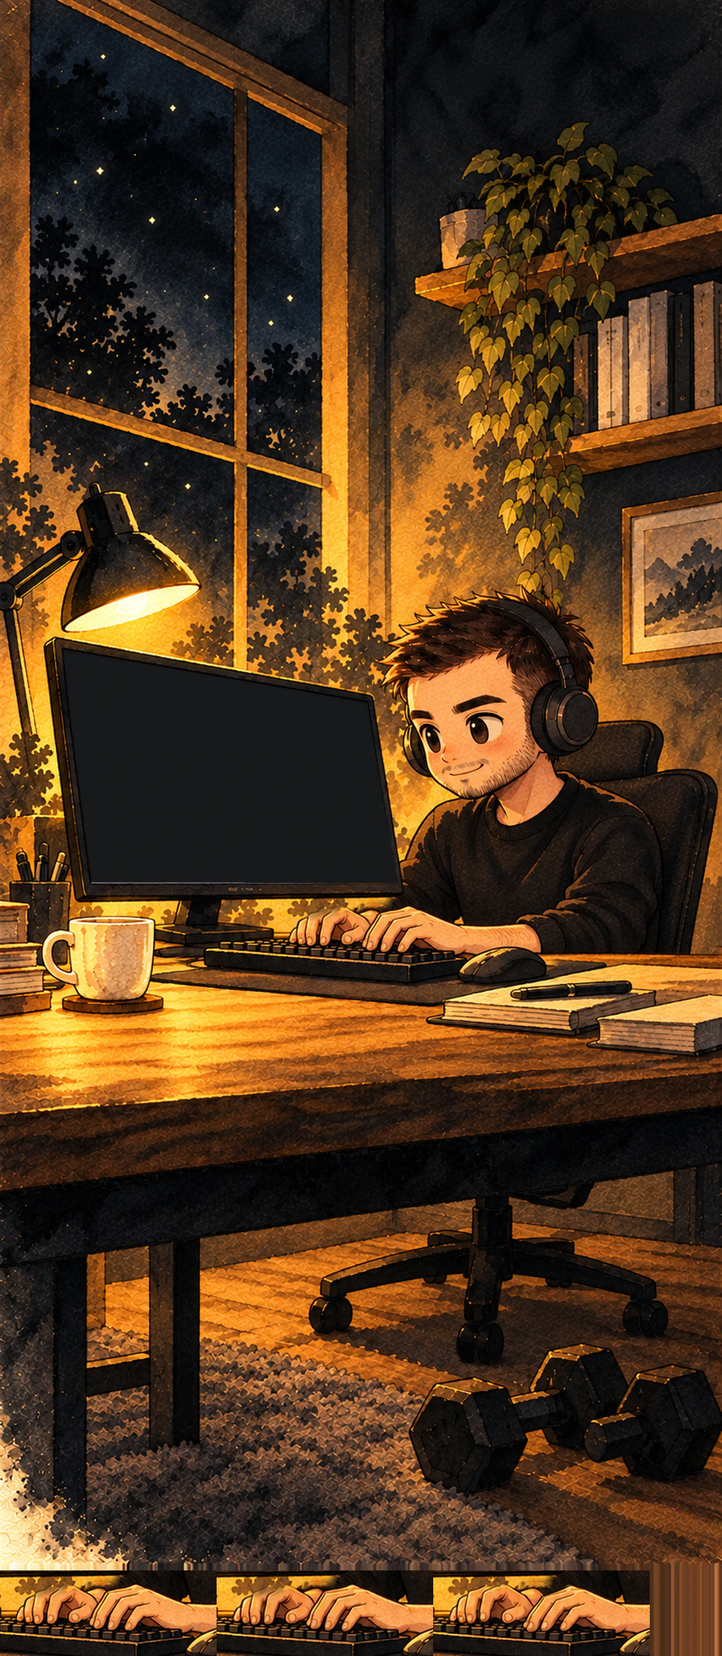
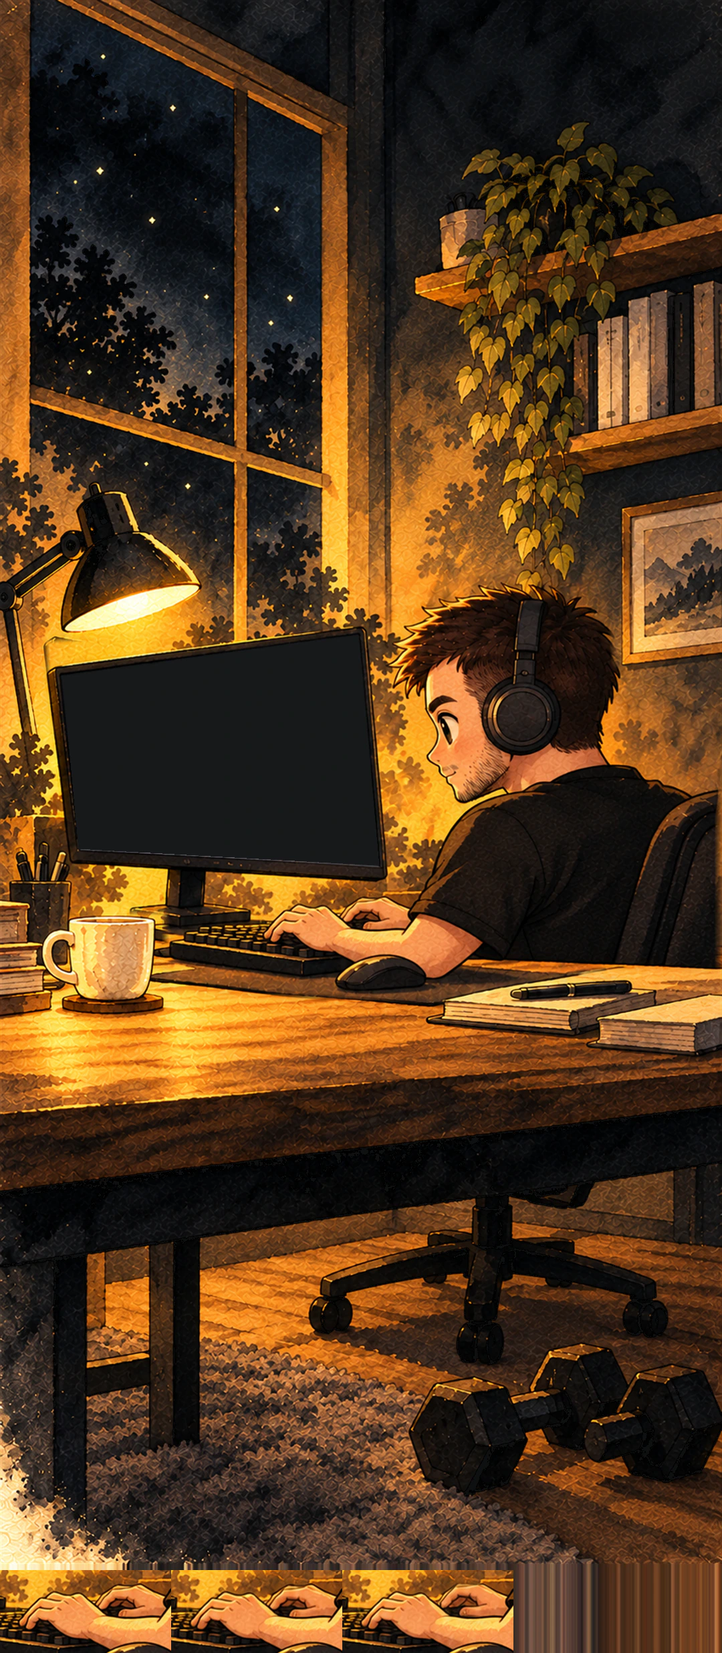
Night shift: mascot turned toward an angled monitor
Astra repainted the desktop and mobile scene plates and typing hands (mascot sits angled, in profile, looking at a
monitor turned toward him). Integration: regenerated assets and art.ts, new monitor quad and terminal box, mascot,
lamp, steam, sky panes hugging the bezel, hotspots. Squashed from t3/night-shift-facing-monitor(-1); only key
before/after screenshots kept.

diff --git a/src/lib/home/sections/night-shift/layout.ts b/src/lib/home/sections/night-shift/layout.ts
@@ -1,7 +1,7 @@
 /**
  * Night shift scene geometry, the single place to re-tune the composition.
  *
- * Source of truth: the coordinate contract in docs/art/night-shift/README.md ("Coherent scene revision": desktop scene
+ * Source of truth: the coordinate contract in docs/art/night-shift/README.md ("Facing monitor revision": desktop scene
  * 2560×1440, mobile scene 1080×2340, all in art px) and the crop rects that tools/optimize-art.mjs wrote to ./art.ts. Everything here is
  * authored in art px and exported as percentages (0…100) of each variant's canvas, so the layers, the live monitor
  * and the hotspots stay pixel-registered at every size.
@@ -136,41 +136,46 @@ export const desktop: SceneLayout = {
 		quad: screen(
 			D,
 			[
-				[609, 563],
-				[1168, 639],
-				[1220, 950],
-				[661, 949]
+				[603, 600],
+				[1247, 474],
+				[1282, 927],
+				[626, 898]
 			],
-			8
+			10
 		),
-		box: { width: 480, height: 320 },
+		// the screen's mid lines measure ≈ 656×375 art px; the box keeps that aspect
+		box: { width: 520, height: 296 },
 		fontSize: 18,
 		padding: 26
 	},
-	// head, headphones, shoulders and arms down to the hands on the keys
-	mascot: rectPct(D, 1080, 290, 900, 790),
-	window: rectPct(D, 536, 11, 582, 589),
+	// hair, headphones, back and arms down to the hands on the keys (the chair excluded)
+	mascot: rectPct(D, 1060, 300, 900, 770),
+	// upper glass down to the monitor's top edge (the turned screen now covers the panes' lower part)
+	window: rectPct(D, 536, 11, 582, 533),
 	sky: {
 		rect: rectPct(D, 430, -100, 1100, 1100),
+		// README "facing monitor" pane clips, their lower edges run 1 px above the turned monitor's bezel (the README's
+		// left a 5–6 px strip of moonless plate glass above it)
 		panes: [
 			[
 				[538, 11],
 				[943, 106],
-				[942, 569],
+				[943, 518],
+				[796, 544],
 				[536, 508]
 			],
 			[
 				[969, 113],
 				[1116, 153],
-				[1118, 600],
-				[968, 575]
+				[1118, 487],
+				[968, 513]
 			]
 		].map((pane) => pane.map((point) => pointPct(D, point as [number, number])))
 	},
 	// center of the shade's lit opening
-	lamp: { ...pointPct(D, [320, 628]), radius: 16 },
-	// mug rim ≈ x 355…525 at y 960 (handle on the left); the wisps rise from the bottom center of this box
-	steam: rectPct(D, 357, 622, 166, 338),
+	lamp: { ...pointPct(D, [318, 624]), radius: 16 },
+	// mug rim [355, 951, 171, 34], steam origin (438, 964): the wisps rise from the bottom center of this box
+	steam: rectPct(D, 355, 626, 166, 338),
 	bonsai: at(D, POT, BONSAI_ON_DESKTOP),
 	props: {
 		bonsai: place(D, PROPS.bonsai, BONSAI_ON_DESKTOP),
@@ -183,16 +188,16 @@ export const desktop: SceneLayout = {
 	spots: [
 		{
 			id: 'window',
-			// upper panes, stopping at the monitor's top edge (y 563)
-			rect: rectPct(D, 536, 11, 582, 552),
-			glow: rectPct(D, 535, 87, 520, 520),
+			// upper panes, stopping at the turned monitor's top edge
+			rect: rectPct(D, 536, 11, 582, 533),
+			glow: rectPct(D, 545, 60, 500, 490),
 			tip: { x: 45, y: 38 }
 		},
-		// README "coherent scene revision" rects (art px); the bonsai's moves with its 18 px offset
+		// README "facing monitor revision" rects (art px); the bonsai's includes the grown golden canopy
 		{ id: 'coffee', rect: rectPct(D, 294, 948, 255, 195) },
 		{ id: 'handheld', rect: rectPct(D, 126, 1082, 375, 187), tip: { x: 30, y: 4 }, tipAlign: 'start' },
 		{ id: 'manga', rect: rectPct(D, 1940, 200, 620, 355), tip: { x: 45, y: 8 }, tipAlign: 'end' },
-		{ id: 'bonsai', rect: rectPct(D, 2020, 696, 506, 418), tip: { x: 50, y: 10 }, tipAlign: 'end' },
+		{ id: 'bonsai', rect: rectPct(D, 2020, 678, 506, 418), tip: { x: 50, y: 10 }, tipAlign: 'end' },
 		{ id: 'dumbbells', rect: rectPct(D, 1858, 1212, 395, 182) }
 	]
 };
@@ -210,18 +215,19 @@ export const mobile: SceneLayout = {
 		quad: screen(
 			M,
 			[
-				[96, 975],
-				[548, 1052],
-				[593, 1320],
-				[138, 1318]
+				[93, 1012],
+				[536, 952],
+				[567, 1294],
+				[117, 1270]
 			],
-			6
+			7
 		),
+		// the screen's mid lines measure ≈ 448×300 art px; 216 px tall fits a full page plus the prompt (≈ 7% taller glyphs)
 		box: { width: 300, height: 216 },
 		fontSize: 16,
 		padding: 14
 	},
-	mascot: rectPct(M, 400, 850, 610, 600),
+	mascot: rectPct(M, 390, 870, 650, 580),
 	window: rectPct(M, 46, 0, 434, 700),
 	sky: {
 		// README rest rect is (-65, 10); raised 50 px so the scroll drift never uncovers the panes' top edge
@@ -242,9 +248,9 @@ export const mobile: SceneLayout = {
 			]
 		].map((pane) => pane.map((point) => pointPct(M, point as [number, number])))
 	},
-	lamp: { ...pointPct(M, [199, 912]), radius: 30 },
-	// mug rim ≈ x 105…220 at y 1378
-	steam: rectPct(M, 104, 1167, 119, 211),
+	lamp: { ...pointPct(M, [194, 909]), radius: 30 },
+	// mug rim [105, 1371, 126, 25], steam origin (169, 1380)
+	steam: rectPct(M, 109, 1169, 120, 211),
 	bonsai: at(M, POT, BONSAI_TO_MOBILE),
 	props: { bonsai: place(M, PROPS.bonsai, BONSAI_TO_MOBILE), golden: place(M, PROPS.golden, BONSAI_TO_MOBILE), handheld: place(M, PROPS.handheld, HANDHELD_TO_MOBILE) },
 	sheet: sheetPct(SCENES.mobile),
@@ -254,8 +260,8 @@ export const mobile: SceneLayout = {
 		{ id: 'manga', rect: rectPct(M, 760, 420, 320, 280), tip: { x: 45, y: 10 }, tipAlign: 'end' },
 		{ id: 'coffee', rect: rectPct(M, 60, 1368, 186, 155), tipAlign: 'start' },
 		{ id: 'handheld', rect: rectPct(M, 140, 1515, 301, 151) },
-		// README rect moved with the bonsai's nudge (left edge kept clear of the golden canopy at x ≈ 805)
-		{ id: 'bonsai', rect: rectPct(M, 790, 1266, 290, 255), tip: { x: 45, y: 0 }, tipAlign: 'end', dot: { x: 56, y: 50 } },
+		// README rect, includes the golden canopy; the dot sits on the trunk (x ≈ 971 with the nudge)
+		{ id: 'bonsai', rect: rectPct(M, 775, 1260, 305, 255), tip: { x: 45, y: 0 }, tipAlign: 'end', dot: { x: 63, y: 50 } },
 		{ id: 'dumbbells', rect: rectPct(M, 605, 2005, 475, 245) }
 	]
 };

diff --git a/src/lib/home/sections/night-shift/art.ts b/src/lib/home/sections/night-shift/art.ts
@@ -23,22 +23,22 @@ export const PROPS = {
 export const SCENES = {
 	desktop: {
 		canvas: { width: 1920, height: 1080 },
-		sheet: 1220,
-		hands: { x: 804, y: 696, width: 340, height: 116 },
+		sheet: 1210,
+		hands: { x: 788, y: 694, width: 266, height: 106 },
 		cells: [
 			{ x: 8, y: 1096 },
-			{ x: 364, y: 1096 },
-			{ x: 720, y: 1096 }
+			{ x: 290, y: 1096 },
+			{ x: 572, y: 1096 }
 		]
 	},
 	mobile: {
 		canvas: { width: 1080, height: 2340 },
-		sheet: 2476,
-		hands: { x: 416, y: 1342, width: 308, height: 112 },
+		sheet: 2472,
+		hands: { x: 374, y: 1328, width: 240, height: 108 },
 		cells: [
 			{ x: 8, y: 2356 },
-			{ x: 332, y: 2356 },
-			{ x: 656, y: 2356 }
+			{ x: 264, y: 2356 },
+			{ x: 520, y: 2356 }
 		]
 	}
 };

diff --git a/docs/art/night-shift/PROMPTS.md b/docs/art/night-shift/PROMPTS.md
@@ -217,3 +217,90 @@ Hand export:
 - Validation: correct dimensions; frame-1 decoded RGB exactly matches scene crop; unchanged border rims; changed bounds stay inside the hand rectangles; screen polygons uniformly #18191B; manual 100% hands/chair/mouse inspection; visual desktop/mobile composites with the existing prop mappings.
 
 Temporary local export scripts and inspection composites were removed before commit. No new dependency, public text, source component, old artwork or deployment configuration was changed.
+
+## Facing monitor revision — 2026-11-01
+
+Built-in image_gen.imagegen, opaque outputs, highest quality requested; no CLI/API fallback, no installation, no public copy. Eight generation calls: four composition candidates and four local hand edits. The first desktop and mobile candidates were rejected because their monitors retained the original perspective facing away from the typist. Both had improved gaze, but that alone did not resolve the physical inconsistency. Candidate B in each format was selected for the left-facing profile, rotated chair, readable screen and coherent working axis. Rejected rasters are not committed.
+
+### Desktop candidate A — rejected
+
+Inputs: Original desktop scene. Transparent background: false.
+
+```text
+Use case: precise-object-edit. Edit the provided production watercolor room plate. Highest quality, output 2560x1440 landscape. Fix the coding pose convincingly: the man at right turns his entire chair, shoulders and head to the LEFT toward the monitor. Show his right side and some back, near strict left-facing profile: nose points LEFT, one visible eye looking LEFT into the center of the screen, no eye contact with viewer. Short dark hair, stubble, black short-sleeve tee, dark headphones, same soft anime watercolor identity. Turn monitor toward him at right: its right edge is closer to viewer and taller than left edge, top edge slopes upward toward right, bottom slopes downward toward right. Keep a LARGE wide unobstructed readable screen face occupying roughly x24–48%, y37–66%, uniform #18191B with clear ink bezel, no content. Keyboard directly between monitor and man on their diagonal working axis, both relaxed hands contacting keys, anatomically sound fingers. One coherent chair behind his right shoulder, one mouse beside keyboard. Preserve exact room framing and all non-workstation objects: window, lamp, coffee, shelf with blank book spines, plants, notebook, empty bonsai book at far right, empty handheld surface lower left, dumbbells. Preserve warm butter lamplight, charcoal wall, ink and watercolor paper grain. No bonsai or console painted in: existing separate overlays retained. No moon painted in: existing sky overlay retained. No steam, text, letters, glyphs, logos or UI anywhere. Change only man/chair/monitor/keyboard/mouse and immediate surface, keep room layout intact.
+```
+
+### Desktop candidate B — selected
+
+Inputs: Original desktop scene. Transparent background: false.
+
+```text
+Use case: precise-object-edit. Edit the provided production watercolor room plate. Highest quality, output 2560x1440 landscape. Fix the coding pose convincingly: the man at right turns his entire chair, shoulders and head to the LEFT toward the monitor. Show his right side and some back, near strict left-facing profile: nose points LEFT, one visible eye looking LEFT into the center of the screen, no eye contact with viewer. Short dark hair, stubble, black short-sleeve tee, dark headphones, same soft anime watercolor identity. Turn monitor toward him at right: its right edge is closer to viewer and taller than left edge, top edge slopes upward toward right, bottom slopes downward toward right. Keep a LARGE wide unobstructed readable screen face occupying roughly x24–48%, y37–66%, uniform #18191B with clear ink bezel, no content. Keyboard directly between monitor and man on their diagonal working axis, both relaxed hands contacting keys, anatomically sound fingers. One coherent chair behind his right shoulder, one mouse beside keyboard. Preserve exact room framing and all non-workstation objects: window, lamp, coffee, shelf with blank book spines, plants, notebook, empty bonsai book at far right, empty handheld surface lower left, dumbbells. Preserve warm butter lamplight, charcoal wall, ink and watercolor paper grain. No bonsai or console painted in: existing separate overlays retained. No moon painted in: existing sky overlay retained. No steam, text, letters, glyphs, logos or UI anywhere. Change only man/chair/monitor/keyboard/mouse and immediate surface, keep room layout intact.
+COMPOSITION B — CRITICAL monitor perspective correction: completely repaint the monitor; do not retain the original left-tall trapezoid. Inner screen corners on 2560x1440 MUST be approximately TL(600,640), TR(1170,550), BR(1170,940), BL(600,870). The RIGHT screen edge is nearer the man and is TALLER, so the visible screen actually faces him. This is essential. Keyboard is angled diagonally, long edge recedes toward upper-left, centered x1170,y1030. Left-facing profile head, eye aimed into screen; visible right shoulder/back. Retain wide visible screen and both hands.
+```
+
+### Mobile candidate A — rejected
+
+Inputs: Original mobile scene; selected desktop candidate B. Transparent background: false.
+
+```text
+Use case: precise-object-edit. Highest quality. Image 1 is the portrait room edit target, keep exactly its framing and 1080x2340 ratio. Image 2 is the accepted DESKTOP composition reference. Repaint only mobile workstation to match image 2: man in right-side/back three-quarter view, head strict left-facing profile with one visible eye looking LEFT into screen center, short dark hair, stubble, headphones, black tee. Chair turned left, one chair only. Large monitor face turned toward the man: RIGHT vertical edge taller and nearer him; top edge rises toward right, bottom edge descends toward right. Large unobscured uniformly #18191B screen, ink bezel, approximately x8–56%, y41–57%. Keyboard aligned on screen-to-man axis, both hands touching blank keys. Natural arms and seated anatomy. Keep EXACT portrait room and non-workstation locations: tall window, lamp, mug, shelf and trailing plant, book on right for separate bonsai, blank handheld space, desk legs, chair base, dumbbells. Match warm butter light, anthracite, ink/watercolor paper texture and mascot style. No text, letters, UI, logos, steam. No painted bonsai/console/moon, these retain separate registered layers. Do not crop or reframe. Same portrait proportions.
+```
+
+### Mobile candidate B — selected
+
+Inputs: Original mobile scene; selected desktop candidate B. Transparent background: false.
+
+```text
+Use case: precise-object-edit. Highest quality. Image 1 is the portrait room edit target, keep exactly its framing and 1080x2340 ratio. Image 2 is the accepted DESKTOP composition reference. Repaint only mobile workstation to match image 2: man in right-side/back three-quarter view, head strict left-facing profile with one visible eye looking LEFT into screen center, short dark hair, stubble, headphones, black tee. Chair turned left, one chair only. Large monitor face turned toward the man: RIGHT vertical edge taller and nearer him; top edge rises toward right, bottom edge descends toward right. Large unobscured uniformly #18191B screen, ink bezel, approximately x8–56%, y41–57%. Keyboard aligned on screen-to-man axis, both hands touching blank keys. Natural arms and seated anatomy. Keep EXACT portrait room and non-workstation locations: tall window, lamp, mug, shelf and trailing plant, book on right for separate bonsai, blank handheld space, desk legs, chair base, dumbbells. Match warm butter light, anthracite, ink/watercolor paper texture and mascot style. No text, letters, UI, logos, steam. No painted bonsai/console/moon, these retain separate registered layers. Do not crop or reframe. Same portrait proportions.
+MANDATORY screen perspective: discard original monitor silhouette. Inner screen on 1080x2340 must approximately be TL(90,1060), TR(550,970), BR(575,1320), BL(110,1280). RIGHT edge taller, TOP edge slopes UP toward right, opposite the original plate. Match image 2 monitor orientation exactly. Do not retain old screen angle. Keep screen wide, entire face visible. Preserve portrait canvas and original prop locations.
+```
+
+### Desktop hands beat 2
+
+Inputs: Final registered desktop scene. Transparent background: false.
+
+```text
+Use case: precise-object-edit. Production typing animation beat 2. Edit supplied 2560x1440 scene ONLY inside hands rectangle [1040,925,440,140]. Keep palms, wrists, forearms, keyboard and all room pixels exactly registered. Near hand's index finger lifts a few pixels while middle finger presses a key; far hand index presses and middle lifts slightly. Tiny anatomically plausible fingertip motion only, both hands remain on keys. Five fingers, no extra digits. No changes to arms, pose, head, screen, lighting, texture or camera. No text. Output full identical landscape canvas; a small hand crop will be extracted.
+```
+
+### Desktop hands beat 3
+
+Inputs: Final registered desktop scene. Transparent background: false.
+
+```text
+Use case: precise-object-edit. Production typing animation beat 3. Edit supplied 2560x1440 scene ONLY inside hands rectangle [1040,925,440,140]. Keep palms, wrists, forearms, keyboard and all room pixels exactly registered. Near hand index gently presses its key and ring fingertip lifts slightly; far index lifts a few pixels while middle finger presses. Opposite beat. Tiny anatomically plausible fingertip motion only, both hands remain on keys. Five fingers, no extra digits. No changes to arms, pose, head, screen, lighting, texture or camera. No text. Output full identical landscape canvas; a small hand crop will be extracted.
+```
+
+### Mobile hands beat 2
+
+Inputs: Final registered mobile scene. Transparent background: false.
+
+```text
+Use case: precise-object-edit. Production typing animation beat 2. Edit supplied 1080x2340 scene ONLY inside hands rectangle [370,1330,300,105]. Keep palms, wrists, forearms, keyboard and all room pixels exactly registered. Near hand's index finger lifts a few pixels while middle finger presses a key; far hand index presses and middle lifts slightly. Tiny anatomically plausible fingertip motion only, both hands remain on keys. Five fingers, no extra digits. No changes to arms, pose, head, screen, lighting, texture or camera. No text. Output full identical portrait canvas; a small hand crop will be extracted.
+```
+
+### Mobile hands beat 3
+
+Inputs: Final registered mobile scene. Transparent background: false.
+
+```text
+Use case: precise-object-edit. Production typing animation beat 3. Edit supplied 1080x2340 scene ONLY inside hands rectangle [370,1330,300,105]. Keep palms, wrists, forearms, keyboard and all room pixels exactly registered. Near hand index gently presses its key and ring fingertip lifts slightly; far index lifts a few pixels while middle finger presses. Opposite beat. Tiny anatomically plausible fingertip motion only, both hands remain on keys. Five fingers, no extra digits. No changes to arms, pose, head, screen, lighting, texture or camera. No text. Output full identical portrait canvas; a small hand crop will be extracted.
+```
+
+### Registration and export
+
+Native outputs: desktop 1672×941; mobile 852×1846. Windows System.Drawing high-quality bicubic resize to 2560×1440 and 1080×2340. These are normalized masters, not native full-resolution generations. Original base pixels are retained outside workstation masks. Generated pixels blend inward over 12 final pixels, using distance to the nearest polygon segment. No anatomy was drawn with code.
+
+Masks in native generated coordinates, scaled to final canvas with rounded vertices:
+
+- Desktop: [[370,295],[850,295],[850,170],[1230,170],[1230,380],[1500,380],[1500,695],[1100,695],[1100,750],[500,750],[500,700],[360,700]].
+- Mobile: [[48,750],[440,730],[440,665],[720,665],[730,780],[852,780],[852,1150],[690,1150],[690,1180],[190,1180],[190,1080],[65,1080]].
+
+Initial hard-edged export was rejected for visible joins and a retained old chair edge. Added the 12-pixel inward feather and expanded desktop right-upper mask from y420 to y380. Mobile mask was expanded from y850 to y780 to remove an old floating headrest edge. These were export corrections, not additional image generations.
+
+Fill measured monitor quads with RGB(24,25,27), as documented in README. Retain original transparent props and their affine placements. Desktop sky clip is shortened around the new monitor top; mobile clip stays unchanged. Do not bake sky or props into the scene.
+
+Hand exports remain 440×140 desktop and 300×105 mobile. Frame 1 is an exact scene crop at the new rect. Resize each generated full-frame beat to master size and crop the same rect. Blend only the union of two ellipses in patch-local coordinates: desktop center/radii (125,83)/(105,48) and (263,52)/(93,42); mobile (80,59)/(68,39) and (173,34)/(62,29). Let r be the smaller normalized elliptical distance, alpha=clamp((1-r)*6,0,1). Multiply by clamp((d-4)/10,0,1), where d is distance to nearest patch edge. Round blended RGB values to nearest integer. This keeps wrists, most keycaps, surrounding texture and five-pixel patch rims stationary. Full generated variants are not runtime frames.
+
+Review: final plates, native-size face/workstation crops, all hand frames, 640×360 desktop and 270×585 mobile composites with existing moon, bonsai, handheld and foreground. Hand motion is intentionally small, especially at mobile size; profile occludes some far fingers naturally. Palette and paper texture remain matched to the original room.

diff --git a/docs/art/night-shift/README.md b/docs/art/night-shift/README.md
@@ -195,3 +195,65 @@ The window hotspot must still be clipped to the two upper panes, using the origi
 - The built-in editor has no explicit mask/model/quality selector. Highest quality and local-region edits were requested in the prompts. It still repainted pixels outside the requested region, so only the cropped hand regions were used, with deterministic soft edge blending.
 - Native generations were 1672×941 desktop and 852×1846 mobile. The final 2560×1440 and 1080×2340 masters are Lanczos-resampled/registered exports, not native-resolution generations. The original background pixels are preserved outside the edit mask. No anatomical content was drawn with code.
 - All requested deliverables are supplied, including mobile hands. The assets are ready for integration; this commit does not alter the live site. Keep these PNG masters in the art source folder and derive appropriately compressed responsive assets through the existing pipeline.
+
+## Facing monitor revision
+
+2026-11-01. **This is the authoritative coordinate contract for the current scene and hand PNGs.** It supersedes the coherent-scene coordinates above. Origin is top left; all values below are final-canvas pixels. Rectangles are [x,y,width,height]; quads are clockwise TL, TR, BR, BL.
+
+The mascot now presents his right side/back, with a left-facing profile and visible eye aimed into the monitor. The monitor's right edge is taller, turning its readable face toward him; keyboard and hands sit along that working axis. Scene masters remain 2560×1440 desktop and 1080×2340 mobile. Hand crops retain 440×140 and 300×105 respectively, but their placement changes. These coordinates must be adopted together during integration.
+
+### Desktop — 2560×1440
+
+- Monitor inner screen quad: **[[603,600],[1246,474],[1282,927],[626,897]]**. Interior is uniform #18191B; inset terminal content a few pixels from the edge.
+- Mascot visible box (hair, body, arms; excludes chair): [1060,300,900,770].
+- Hands patch: **[1040,925,440,140]**.
+- Lamp bulb/light center: [318,624]. Visible shade opening bounds: [196,575,247,101].
+- Mug rim: [355,951,171,34]; steam origin: [438,964]; proposed unpainted steam box: [375,790,125,175].
+- Bonsai pot baseline: y1090, center x2303. Original green/golden registration retained.
+- Window visible upper-pane clips, shortened where the new monitor occludes the original glass:
+  - Left: [[538,11],[943,106],[943,513],[790,544],[536,508]].
+  - Right: [[969,113],[1116,153],[1118,477],[968,507]].
+- Sky placement remains [430,-100,1100,1100]. Use these revised fixed clips; otherwise the old sky overlay would paint across the monitor's top edge.
+
+Hotspot rectangles, measured practical bounds including modest target padding:
+
+- Window: [536,11,582,533], clipped to the two revised pane polygons.
+- Coffee: [294,948,255,195].
+- Handheld: [126,1082,375,187].
+- Manga: [1940,200,620,355].
+- Bonsai: [2020,678,506,418], includes golden grown state.
+- Dumbbells: [1858,1212,395,182].
+
+### Mobile — 1080×2340
+
+- Monitor inner screen quad: **[[93,1012],[535,951],[567,1294],[117,1269]]**. Interior is uniform #18191B.
+- Mascot visible box (hair, body, arms; excludes chair): [390,870,650,580].
+- Hands patch: **[370,1330,300,105]**.
+- Lamp bulb/light center: [194,909]. Visible shade opening bounds: [92,871,207,77].
+- Mug rim: [105,1371,126,25]; steam origin: [169,1380]; proposed unpainted steam box: [119,1210,100,172].
+- Bonsai pot baseline: y1509, center x947. Original mobile affine mapping retained.
+- Window upper-pane clips unchanged:
+  - Left: [[46,0],[76,0],[349,133],[349,663],[46,586]].
+  - Right: [[371,145],[480,197],[480,700],[371,672]].
+- Sky placement remains [-65,10,800,800].
+
+Hotspot rectangles:
+
+- Window: [46,0,434,700], clipped to the two pane polygons.
+- Coffee: [60,1368,186,155].
+- Handheld: [140,1515,301,151].
+- Manga: [760,420,320,280].
+- Bonsai: [775,1260,305,255], includes golden grown state.
+- Dumbbells: [605,2005,475,245].
+
+### Layers, verification and limitations
+
+Keep the coherent-scene layer order: scene, clipped sky, hands patch, handheld plus one bonsai state, optional foreground, then implementation-owned steam/terminal/hotspots. The moon, bonsai and handheld intentionally remain separate. All four transparent prop files remain unchanged: the book and tabletop anchors still register in reviewed desktop/mobile composites. Mobile bonsai overlaps the right torso/chair edge naturally without obscuring hands. Use the previously documented mobile affine mappings.
+
+Frame 1 is an exact decoded-RGB crop of its plate. Frames 2 and 3 use generated fingertips blended only within local elliptical masks and retain a five-pixel unchanged rim; there are no animation changes outside the documented patch. Start with 1→2→1→3 at approximately 5–6 changes per second, freeze to frame 1 for reduced motion. The profile naturally hides some far-hand fingers; animation is restrained and subtle on small mobile displays.
+
+Final inspection covered both plates at full resolution through original-size detail views and full-canvas views, every patch, and 640×360 / 270×585 prop-composited thumbnails. The face reads as concentrating on the screen even at thumbnail size. Exact pixel validation covers dimensions, frame-1 equality, patch rims and uniform screen fills. Live terminal font size still needs implementation-level checking.
+
+Native generated images were 1672×941 / 852×1846; these masters are resized exports with original background pixels preserved outside the workstation masks. No application code, visitor copy, dependency, deployment or remote push is part of this revision. Exact prompts, rejections and export masks are in PROMPTS.md.
+
+Pixel audit: all eight PNG dimensions passed; both frame-1 crops match exactly; both screen interiors match RGB(24,25,27). Frame 2/3 changed bounds within each crop are desktop [21,11,335,120] and mobile [13,6,222,92], so all five-pixel rims remain unchanged.

diff --git a/src/lib/home/sections/night-shift/assets/README.md b/src/lib/home/sections/night-shift/assets/README.md
@@ -1,6 +1,6 @@
 # Night shift layers (01:00)
 
-Optimized sources generated from the final painted masters in `docs/art/night-shift/` (the "coherent scene revision": the mascot, one chair, keyboard and mouse are painted into the scene) by `../tools/optimize-art.mjs` (sharp from pnpm's store, no extra dependency). Do not edit these files by hand: change the masters or the tool and re-run it (stop `pnpm dev` first on Windows, it keeps the files open). The build (`@sveltejs/enhanced-img`) encodes them to AVIF/WebP in the widths listed in `../Scene.svelte`.
+Optimized sources generated from the final painted masters in `docs/art/night-shift/` (the "facing monitor revision": the mascot, in profile and turned toward the monitor, one chair, keyboard and mouse are painted into the scene) by `../tools/optimize-art.mjs` (sharp from pnpm's store, no extra dependency). Do not edit these files by hand: change the masters or the tool and re-run it (stop `pnpm dev` first on Windows, it keeps the files open). The build (`@sveltejs/enhanced-img`) encodes them to AVIF/WebP in the widths listed in `../Scene.svelte`.
 
 ```sh
 node src/lib/home/sections/night-shift/tools/optimize-art.mjs && pnpm exec oxfmt src/lib/home/sections/night-shift/art.ts
@@ -18,6 +18,6 @@ node src/lib/home/sections/night-shift/tools/optimize-art.mjs && pnpm exec oxfmt
 
 **Typing hands.** Each scene file is taller than its scene: below it sits a band with the three hand frames side by side, each cut out around the pixels the frames change (plus an 8 px margin of unchanged scene and an 8 px bleed of the surrounding scene for resampling). The section shows the scene part as the plate (the band is clipped off) and a window at the hands rect onto the same image, translated to the current frame's cell. Plate and window use the same `src`, `srcset` and `sizes`, so the browser picks the same file and decodes it once, and the cell registers exactly with the plate at every size. A separately encoded patch drifted by about 0.5 CSS px in Chrome on phones. Keep the hands window's `<enhanced:img>` in sync with the plate's. Under reduced motion the window is not rendered: the plate's own hands at rest are frame 1.
 
-Crop offsets, the hands rect and the cell positions land in `../art.ts`. `../layout.ts` places every layer from the coordinate contract in `docs/art/night-shift/README.md` (desktop 2560×1440, mobile 1080×2340). Mobile has no prop layers of its own: it reuses the desktop bonsai and handheld with the README's affine maps. The bonsai is nudged to stand on its book on the new plates (desktop 18 px down, mobile 24 px right and 6 px down, in art px).
+Crop offsets, the hands rect and the cell positions land in `../art.ts`. `../layout.ts` places every layer from the coordinate contract in `docs/art/night-shift/README.md` (desktop 2560×1440, mobile 1080×2340). Mobile has no prop layers of its own: it reuses the desktop bonsai and handheld with the README's affine maps. The bonsai is nudged to stand on its book (desktop 18 px down, mobile 24 px right and 6 px down, in art px); the facing monitor repaint left the book and desk areas untouched, so these offsets still hold. The desktop sky pane clips end 1 px above the turned monitor's bezel (slightly lower than the README's), so no strip of moonless plate glass shows between sky and monitor.
 
 Shiny egg: the mascot is part of the plate, so `.mascot` is an empty box around it (`data-shiny-art` opts out of the egg's filter fallback). Under `[data-shiny]` its `::before` lays a radial soft-light gold wash over the mascot; the egg's sparkle is its `::after`.
